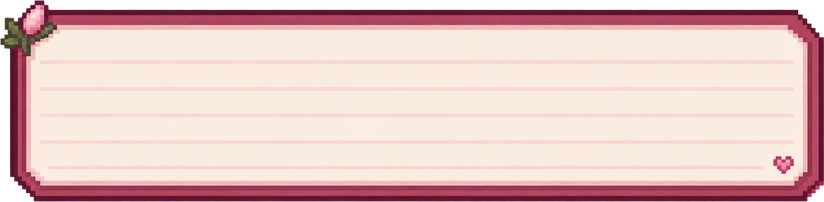
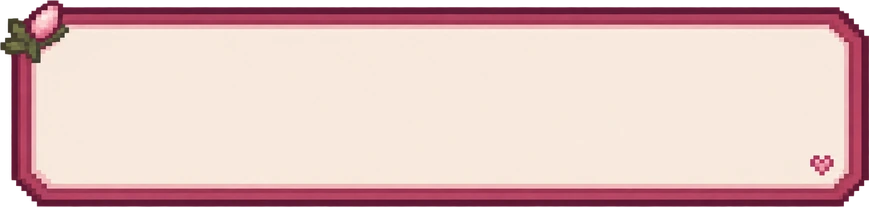
Message popup: new plain textbox (no lines), remove cream rectangle behind frame

Changed region(s): [[0.0, 0.0, 1.0, 1.0]]

diff --git a/index.html b/index.html
@@ -602,11 +602,11 @@ body.iconsLocked .passChip{pointer-events:none;}
 .modal.framed-music .playlist-note{padding:0 14%;font-size:.95rem;margin-top:8px;text-wrap:balance;}
 .modal .closeX{z-index:5;}
 /* message popup: custom frame, textbox and Send button */
-.modal.framed-message{background-image:url('assets/frame_msg.webp');aspect-ratio:1086/1448;width:min(100%,440px,calc((100vh - 32px)*.75));width:min(100%,440px,calc((100dvh - 32px)*.75));--ft:17.5%;--fb:10%;--fl:10.5%;--fr:10.5%;filter:drop-shadow(4px 5px 0 rgba(122,44,70,.35));}
+.modal.framed-message{background-color:transparent;background-image:url('assets/frame_msg.webp');aspect-ratio:1086/1448;width:min(100%,440px,calc((100vh - 32px)*.75));width:min(100%,440px,calc((100dvh - 32px)*.75));--ft:17.5%;--fb:10%;--fl:10.5%;--fr:10.5%;filter:drop-shadow(4px 5px 0 rgba(122,44,70,.35));}
 .modal.framed-message .closeX{top:8.8%;right:15.7%;width:6.5%;aspect-ratio:1/1;padding:0;display:flex;align-items:center;justify-content:center;font-size:clamp(9px,3vw,13px);line-height:1;}
 .modal.framed-message h2{font-size:.95rem;margin-bottom:6px;}
 .modal.framed-message .msg-note{text-align:center;font-size:.9rem;line-height:1.15;margin-bottom:10px;}
-.msg-box{border-style:solid;border-color:transparent;border-width:14px 13px 12px 14px;border-image:url(assets/msg_textbox.webp) 58 55 50 57 fill / 14px 13px 12px 14px stretch;padding:0 4px;}
+.msg-box{border-style:solid;border-color:transparent;border-width:13px 13px 11px 14px;border-image:url(assets/msg_textbox.webp) 63 65 55 69 fill / 13px 13px 11px 14px stretch;padding:0 4px;}
 .msg-box .msg-text{display:block;width:100%;height:clamp(96px,24vh,170px);font-family:'VT323',monospace;font-size:1.1rem;line-height:1.15;padding:2px 4px;border:none;border-radius:0;resize:none;background:transparent;color:var(--ink);outline:none;}
 #sendMsgBtn{background:none;box-shadow:none;border-style:solid;border-color:transparent;border-width:15px 28px 15px 45px;border-image:url(assets/btn_send.webp) 35 65 35 105 fill / 15px 28px 15px 45px stretch;width:min(72%,250px);height:42px;min-height:0;min-width:0;padding:0;margin:12px auto 0;display:flex;align-items:center;justify-content:center;font-size:.95rem;line-height:1;color:var(--deep);filter:drop-shadow(2px 3px 0 rgba(122,44,70,.3));-webkit-tap-highlight-color:transparent;}
 #sendMsgBtn:active{box-shadow:none;filter:brightness(.93) drop-shadow(1px 1px 0 rgba(122,44,70,.3));}
